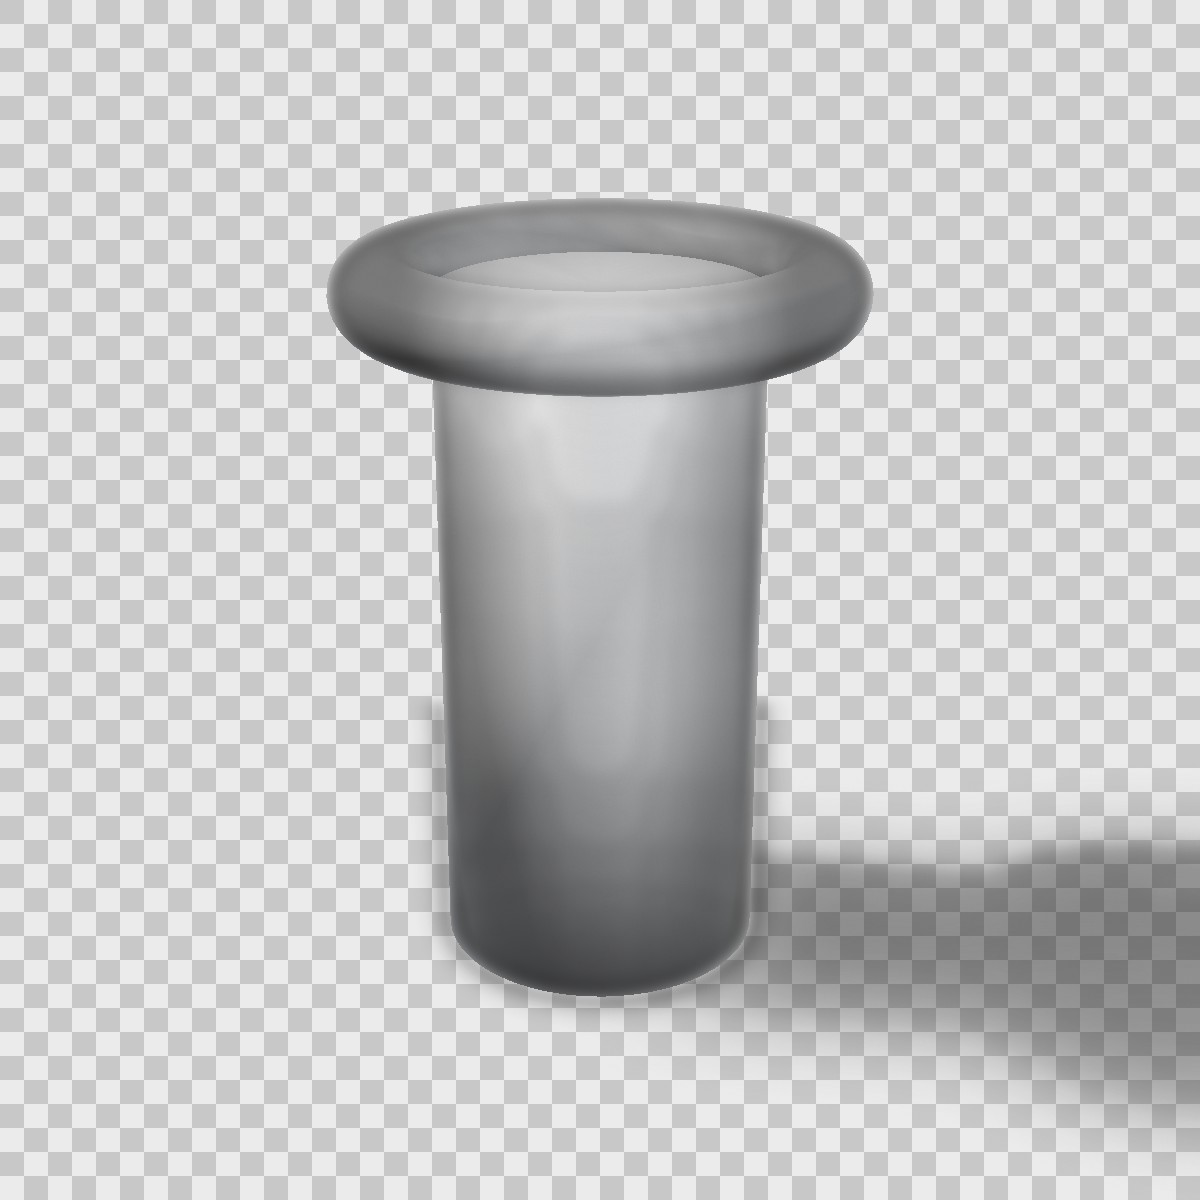
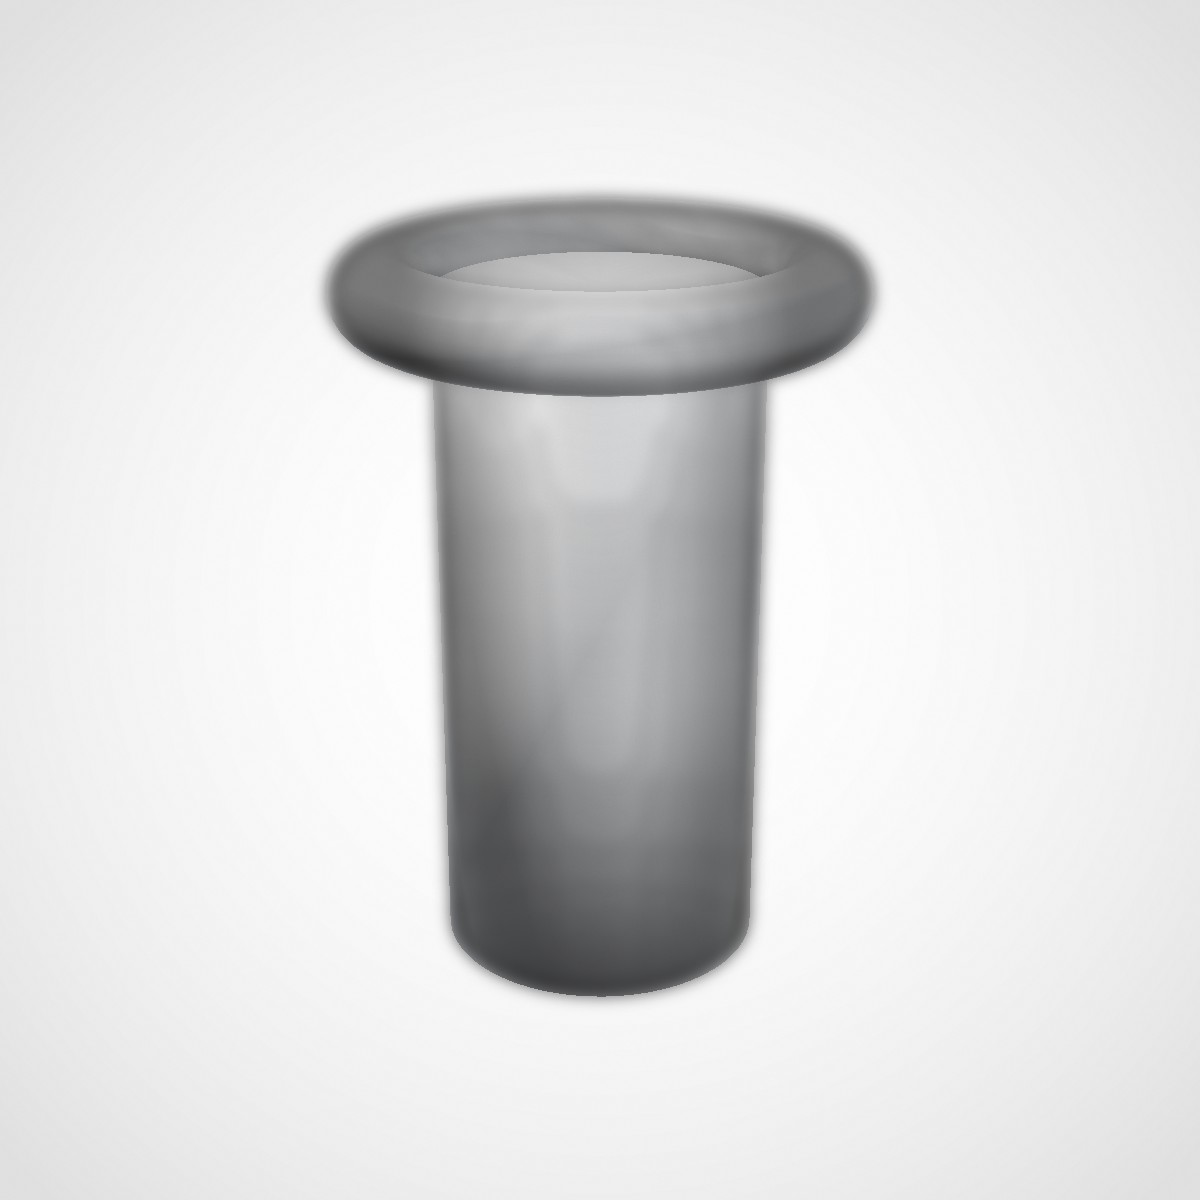
fix(1.2.1): opaque renders were saved with near-zero alpha; README selling rewrite
- _composite bg path emitted alpha = float 1.0 -> uint8 = 1/255, making every
  opaque PNG render near-invisible on GitHub (the broken demo table)
- full-255 alpha now; demo assets studio/white regenerated
- README: 'two tools in one' hero copy, cloud-vs-local comparison table,
  honest Strengths (and limits) section

diff --git a/cutout/mesh/shot.py b/cutout/mesh/shot.py
@@ -206,9 +206,11 @@ def _composite(rgb, alpha_prod, bg_tuple, shadow_mask, refl_rgb=None):
         if refl_rgb is not None:
             ref_rgb, w = refl_rgb
             rgbf = rgbf * (1.0 - w[..., None]) + ref_rgb * w[..., None]
-        dark = 1.0 - np.clip(0.22 * wide + 0.68 * tight, 0.0, 0.78)
+        dark = 1.0 - np.clip(0.25 * wide + 0.55 * tight, 0.0, 0.62)
         rgbf = rgbf * dark[..., None]
-        full = np.ones_like(rgbf[..., :1])
+        # alpha channel must be 0..255 like the RGB channels (0..1 would end up
+        # as a nearly-transparent PNG on GitHub!)
+        full = np.full_like(rgbf[..., :1], 255.0)
         return np.dstack([rgbf, full]).astype(np.uint8)
 
     # transparent: shadow carries alpha below the product silhouette

diff --git a/cutout/__init__.py b/cutout/__init__.py
@@ -4,4 +4,4 @@ A fully offline reconstruction of the remove.bg processing pipeline
 (see docs/RECON_REPORT.md): local matting model -> alpha matte ->
 composition -> PNG/WebP/JPG export.
 """
-__version__ = "1.2.0"
+__version__ = "1.2.1"

diff --git a/README.md b/README.md
@@ -4,17 +4,18 @@
 
 # DeepVertex Cut-Out Studio
 
-**Local, GPU-accelerated AI background remover for Linux — no uploads, no accounts, no credits.**
+**Background remover + 3D product-shot factory that runs on *your* GPU.**
+No uploads. No accounts. No credits. No watermark. Ever.
 
 [![CI](https://github.com/ZaydZaidan/DeepVertex-Cut-Out-Studio/actions/workflows/ci.yml/badge.svg)](https://github.com/ZaydZaidan/DeepVertex-Cut-Out-Studio/actions/workflows/ci.yml)
 [![License: MIT](https://img.shields.io/badge/License-MIT-blue.svg)](LICENSE)
 [![Python](https://img.shields.io/badge/python-3.10%2B-blue)](#)
 [![Platform](https://img.shields.io/badge/platform-Linux-lightgrey)](#)
 
-Remove backgrounds from photos entirely on your own machine with
-state-of-the-art alpha-matting models (BiRefNet by default). Built as a
-[clean-room reconstruction](docs/RECON_REPORT.md) of the remove.bg workflow —
-no remove.bg assets, weights, or code are used.
+**Two tools in one app:**
+
+1. **Photo cutouts** — paste-ready transparent background photos with studio-quality edge quality (SOTA alpha matting, BiRefNet/RMBG-2.0), refined as if you had cut the subject and paid for it.
+2. **3D marketing shots** — you have a CAD model (STEP / STL / OBJ / GLB) but no manufactured product yet? Drop it in and get the full set: 6 CAD views, 3/4 hero angles, turntable spins — transparent, pure-white (marketplace-compliant) or studio-lit, ready for your webshop.
 
 </div>
 
@@ -22,20 +23,29 @@ no remove.bg assets, weights, or code are used.
 
 | | |
 |---|---|
-| ![GUI](assets/screenshots/gui_main.png) | ![Preview at minimum size](assets/screenshots/gui_main_min.png) |
-| ![About](assets/screenshots/gui_about.png) | ![Before/after demo](assets/screenshots/demo_person_before_after.jpg) |
+| ![Photo cutout demo](assets/screenshots/demo_person_before_after.jpg) | ![3D studio shot](assets/screenshots/mesh-studio.png) |
+| *One photo: original → cutout* | *One CAD model: studio-lit product shot* |
 
 </div>
 
 ---
 
-## Why
+## Why pay for pixels twice?
 
-Cloud background removers work well but bind you to quotas, quality tiers,
-watermarks, and — most importantly — to sending every photo to a server.
-Cut-Out Studio runs the same *kind* of pipeline locally: your images never
-leave the machine, there are no rate limits, and the full-quality output is
-free because your own GPU does the work.
+Cloud removers work well — but they bind you to quotas, quality tiers,
+watermarks, and, most importantly, to shipping every photo to a stranger's
+server. Cut-Out Studio runs the same *kind* of pipeline on your own machine:
+
+| | Cloud tool | Cut-Out Studio |
+|---|---|---|
+| Upload photos | always | never |
+| Rate limits / credits | yes | **none** |
+| Watermarks / tiered resolution | often | **never** |
+| Batch 1 000 photos | pay per photo | **free, GPU-speed** |
+| Transparent PNG + solid/blur/image backgrounds | pro-tier | **default** |
+
+Your images never leave the machine; the only network traffic is a one-time
+model download. The output is free because your GPU does the work.
 
 ## Features
 
@@ -223,6 +233,44 @@ marketplace galleries, turntable spins, and pre-manufacture branding.
 
 > Both models auto-download into the Hugging Face cache
 > (`~/.cache/huggingface`) on first use.
+
+## Strengths (and honest limits)
+
+<div align="center">
+
+**Best used for**
+
+</div>
+
+- **Privacy-critical photos** — client work, unreleased products, personal
+  data: nothing is uploaded, nothing is logged, nothing is tracked.
+- **High-volume batch jobs** — hundreds of SKUs per day at GPU speed with
+  zero marginal cost, plus a scriptable CLI for pipelines/CI.
+- **Pre-manufacture marketing** — brand your product in renders *before*
+  the factory tooling exists: upload the CAD file, receive a complete
+  marketplace-ready image set in minutes.
+- **Tinkering-friendly** — every stage (matte → refine → background) is a
+  plain function; swap models or backgrounds without touching the core.
+
+<div align="center">
+
+**Current limits, stated plainly**
+
+</div>
+
+- **3D renders are convincing, not photoreal 9/10** — great for catalogue/
+  turntable shots; skip glossy hero shots. Real HDRI sampling and
+  micro-texture maps are on the roadmap (see
+  [`docs/3D_SNAPSHOT_RECON.md`](docs/3D_SNAPSHOT_RECON.md)).
+- **Single-material shading** — no per-part colour assignment (GLTF material
+  groups are flattened to neutral grey) — monochrome product mocks, exactly
+  what an unbranded prototype shot needs.
+- **Fusion `.f3d` files are unreadable by design** (Autodesk proprietary) —
+  use *File ▸ Export STEP / STL*; STEP needs the optional `[step]` extra.
+- **Linux-first** — the GUI/CLI is developed & verified on Linux; macOS and
+  Windows are untested (the matting pipeline itself is cross-platform).
+- **First-run weight download** (~0.9 GB) — the images pipeline is offline
+  only after that.
 
 ## How it works
 

diff --git a/CHANGELOG.md b/CHANGELOG.md
@@ -5,6 +5,23 @@ All notable changes to this project will be documented in this file.
 The format is based on [Keep a Changelog](https://keepachangelog.com/en/1.1.0/),
 and this project adheres to [Semantic Versioning](https://semver.org/spec/v2.0.0.html).
 
+## [1.2.1] - 2026-10-15
+
+### Fixed
+
+- **Opaque-background PNGs were saved nearly transparent** (alpha channel =
+  float `1.0` cast straight to `uint8`, i.e. alpha 1/255): the demo shot
+  table on the repo README appeared as empty dark cells on GitHub. The
+  compositing path now emits a full 255 alpha; visual parity everywhere,
+  regenerated demo assets.
+- README rewritten with an honest "strengths / limits" outline and a
+  cloud-vs-local comparison table (marketing copy).
+
+### Changed
+
+- Cast-shadow contact weights rebalanced slightly (0.25 wide / 0.55 tight)
+  to sit between the v13 and earlier tunings.
+
 ## [1.2.0] - 2026-10-15
 
 ### Added
